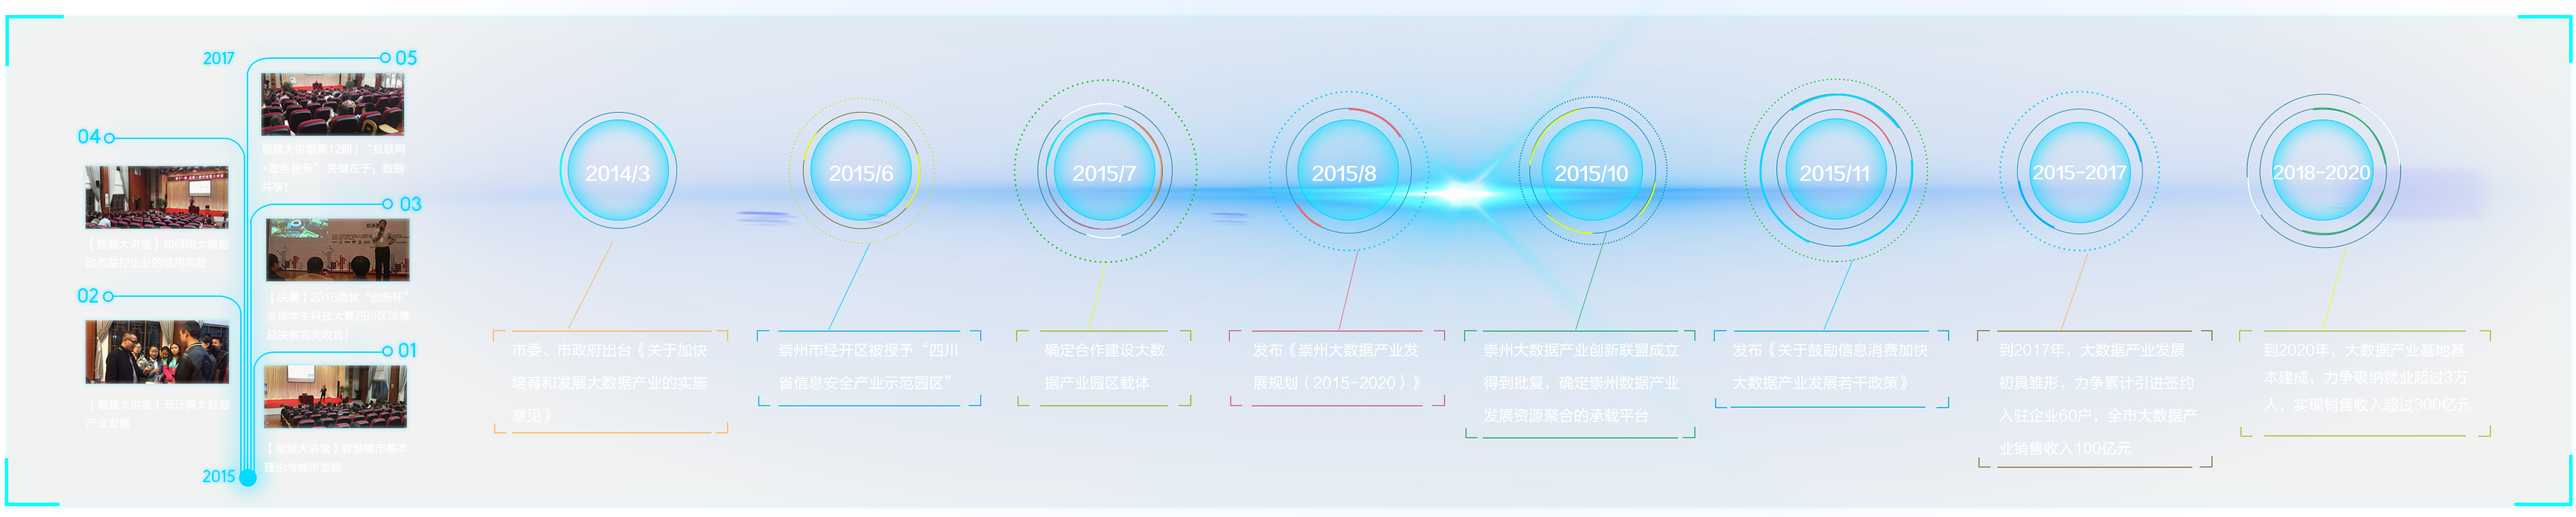
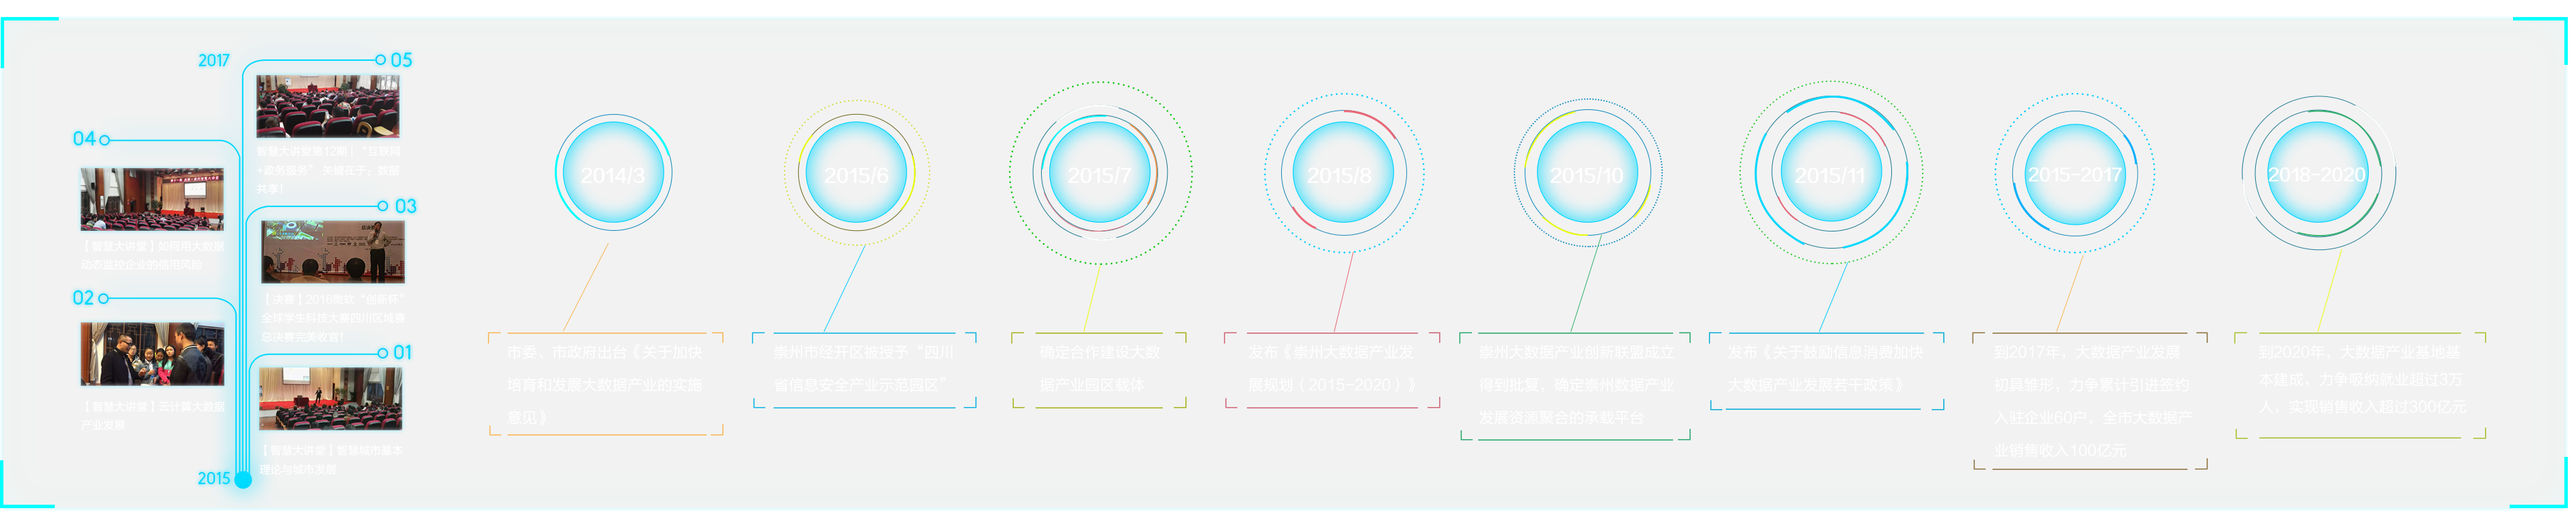
Timeline add animation light

diff --git a/web/CZPortal/artifact/partials/dashboard/style.less b/web/CZPortal/artifact/partials/dashboard/style.less
@@ -23,6 +23,44 @@
     // top:-58px;
     background: url("../assets/images/timeline.png") center no-repeat;
     background-size: 100% 100%;
+    .light{
+      width:100%;
+      height:100%;
+      background: url("../assets/images/timeline_light.png") center no-repeat;
+      background-size: 100% 100%;
+      -webkit-animation-name:slideInLeftLight;
+    -moz-animation-name:slideInLeftLight;
+    -ms-animation-name:slideInLeftLight;
+    animation-name:slideInLeftLight;
+    // -webkit-animation-delay:2.4s;
+    // -moz-animation-delay:2.4s;
+    // -ms-animation-delay:2.4s;
+    // animation-delay:2.4s;
+
+    -webkit-animation-duration:3.4s;
+  -moz-animation-duration:3.4s;
+  -o-animation-duration:3.4s;
+  animation-duration:3.4s;
+  -webkit-animation-delay:6.4s;
+  -moz-animation-delay:6.4s;
+  -ms-animation-delay:6.4s;
+  animation-delay:6.4s;
+  -webkit-animation-fill-mode:both;
+  -moz-animation-fill-mode:both;
+  -o-animtaion-fill-mode:both;
+  animation-fill-mode:both;
+  -webkit-animation-timing-function: linear;
+  -moz-animation-timing-function: linear;
+  -o-animation-timing-function: linear;
+  animation-timing-function: linear;
+  -ms-animation-duration:1.4s;
+  -ms-animation-fill-mode:both;
+  -ms-animation-timing-function:linear;
+  animation-iteration-count:infinite;
+  -webkit-animation-iteration-count:infinite;
+    }
+
+
   }
 }
 .section-main {
@@ -351,4 +389,29 @@
 }
 .main-svg {
   background: rgba(255,255,255,0) !important;
+}
+@-webkit-keyframes slideInLeftLight {
+  from {
+    -webkit-transform: translate3d(-100%, 0, 0);
+    transform: translate3d(-100%, 0, 0);
+    visibility: visible;
+  }
+
+  to {
+    -webkit-transform: translate3d(100%, 0, 0);
+    transform: translate3d(100%, 0, 0);
+  }
+}
+
+@keyframes slideInLeftLight {
+  from {
+    -webkit-transform: translate3d(-100%, 0, 0);
+    transform: translate3d(-100%, 0, 0);
+    visibility: visible;
+  }
+
+  to {
+    -webkit-transform: translate3d(100%, 0, 0);
+    transform: translate3d(100%, 0, 0);
+  }
 }

diff --git a/web/CZPortal/artifact/partials/center/view.html b/web/CZPortal/artifact/partials/center/view.html
@@ -1,4 +1,6 @@
 <div class='section-center'>
   <div class='title'></div>
-  <div class='content-center'></div>
+  <div class='content-center'>
+    <div class='light'></div>
+  </div>
 </div>
